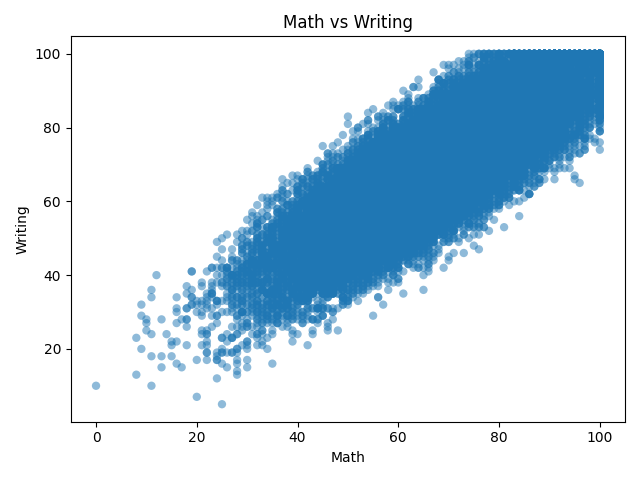
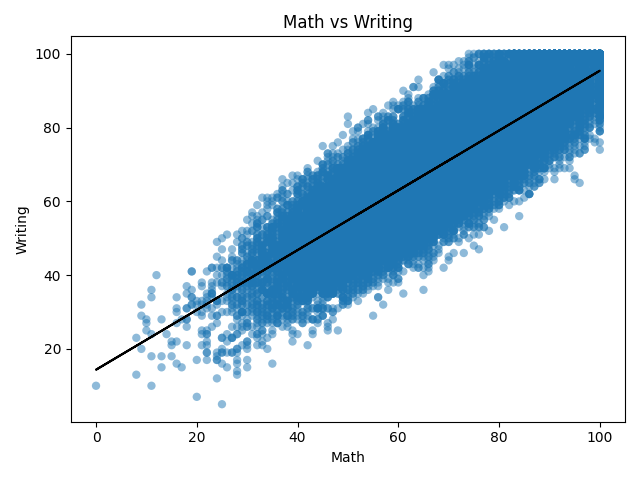
added regression line to scatterplot

diff --git a/hw0/data_basics.py b/hw0/data_basics.py
@@ -171,7 +171,16 @@ class DataBasics:
         # >>> YOUR CODE HERE >>>
         axes = fig.gca()
 
-        axes.scatter(self.df['MathScore'], self.df['WritingScore'], alpha=0.5, edgecolors='none')
+        x = self.df['MathScore']
+        y = self.df['WritingScore']
+
+        axes.scatter(x, y, alpha=0.5, edgecolors='none')
+
+        # slope and y-int
+        m, c = np.polyfit(x, y, 1)
+
+        axes.plot(x, m*x + c, color='black', label='RegressionLine')
+
         axes.set_title('Math vs Writing')
         axes.set_xlabel('Math')
         axes.set_ylabel('Writing')
